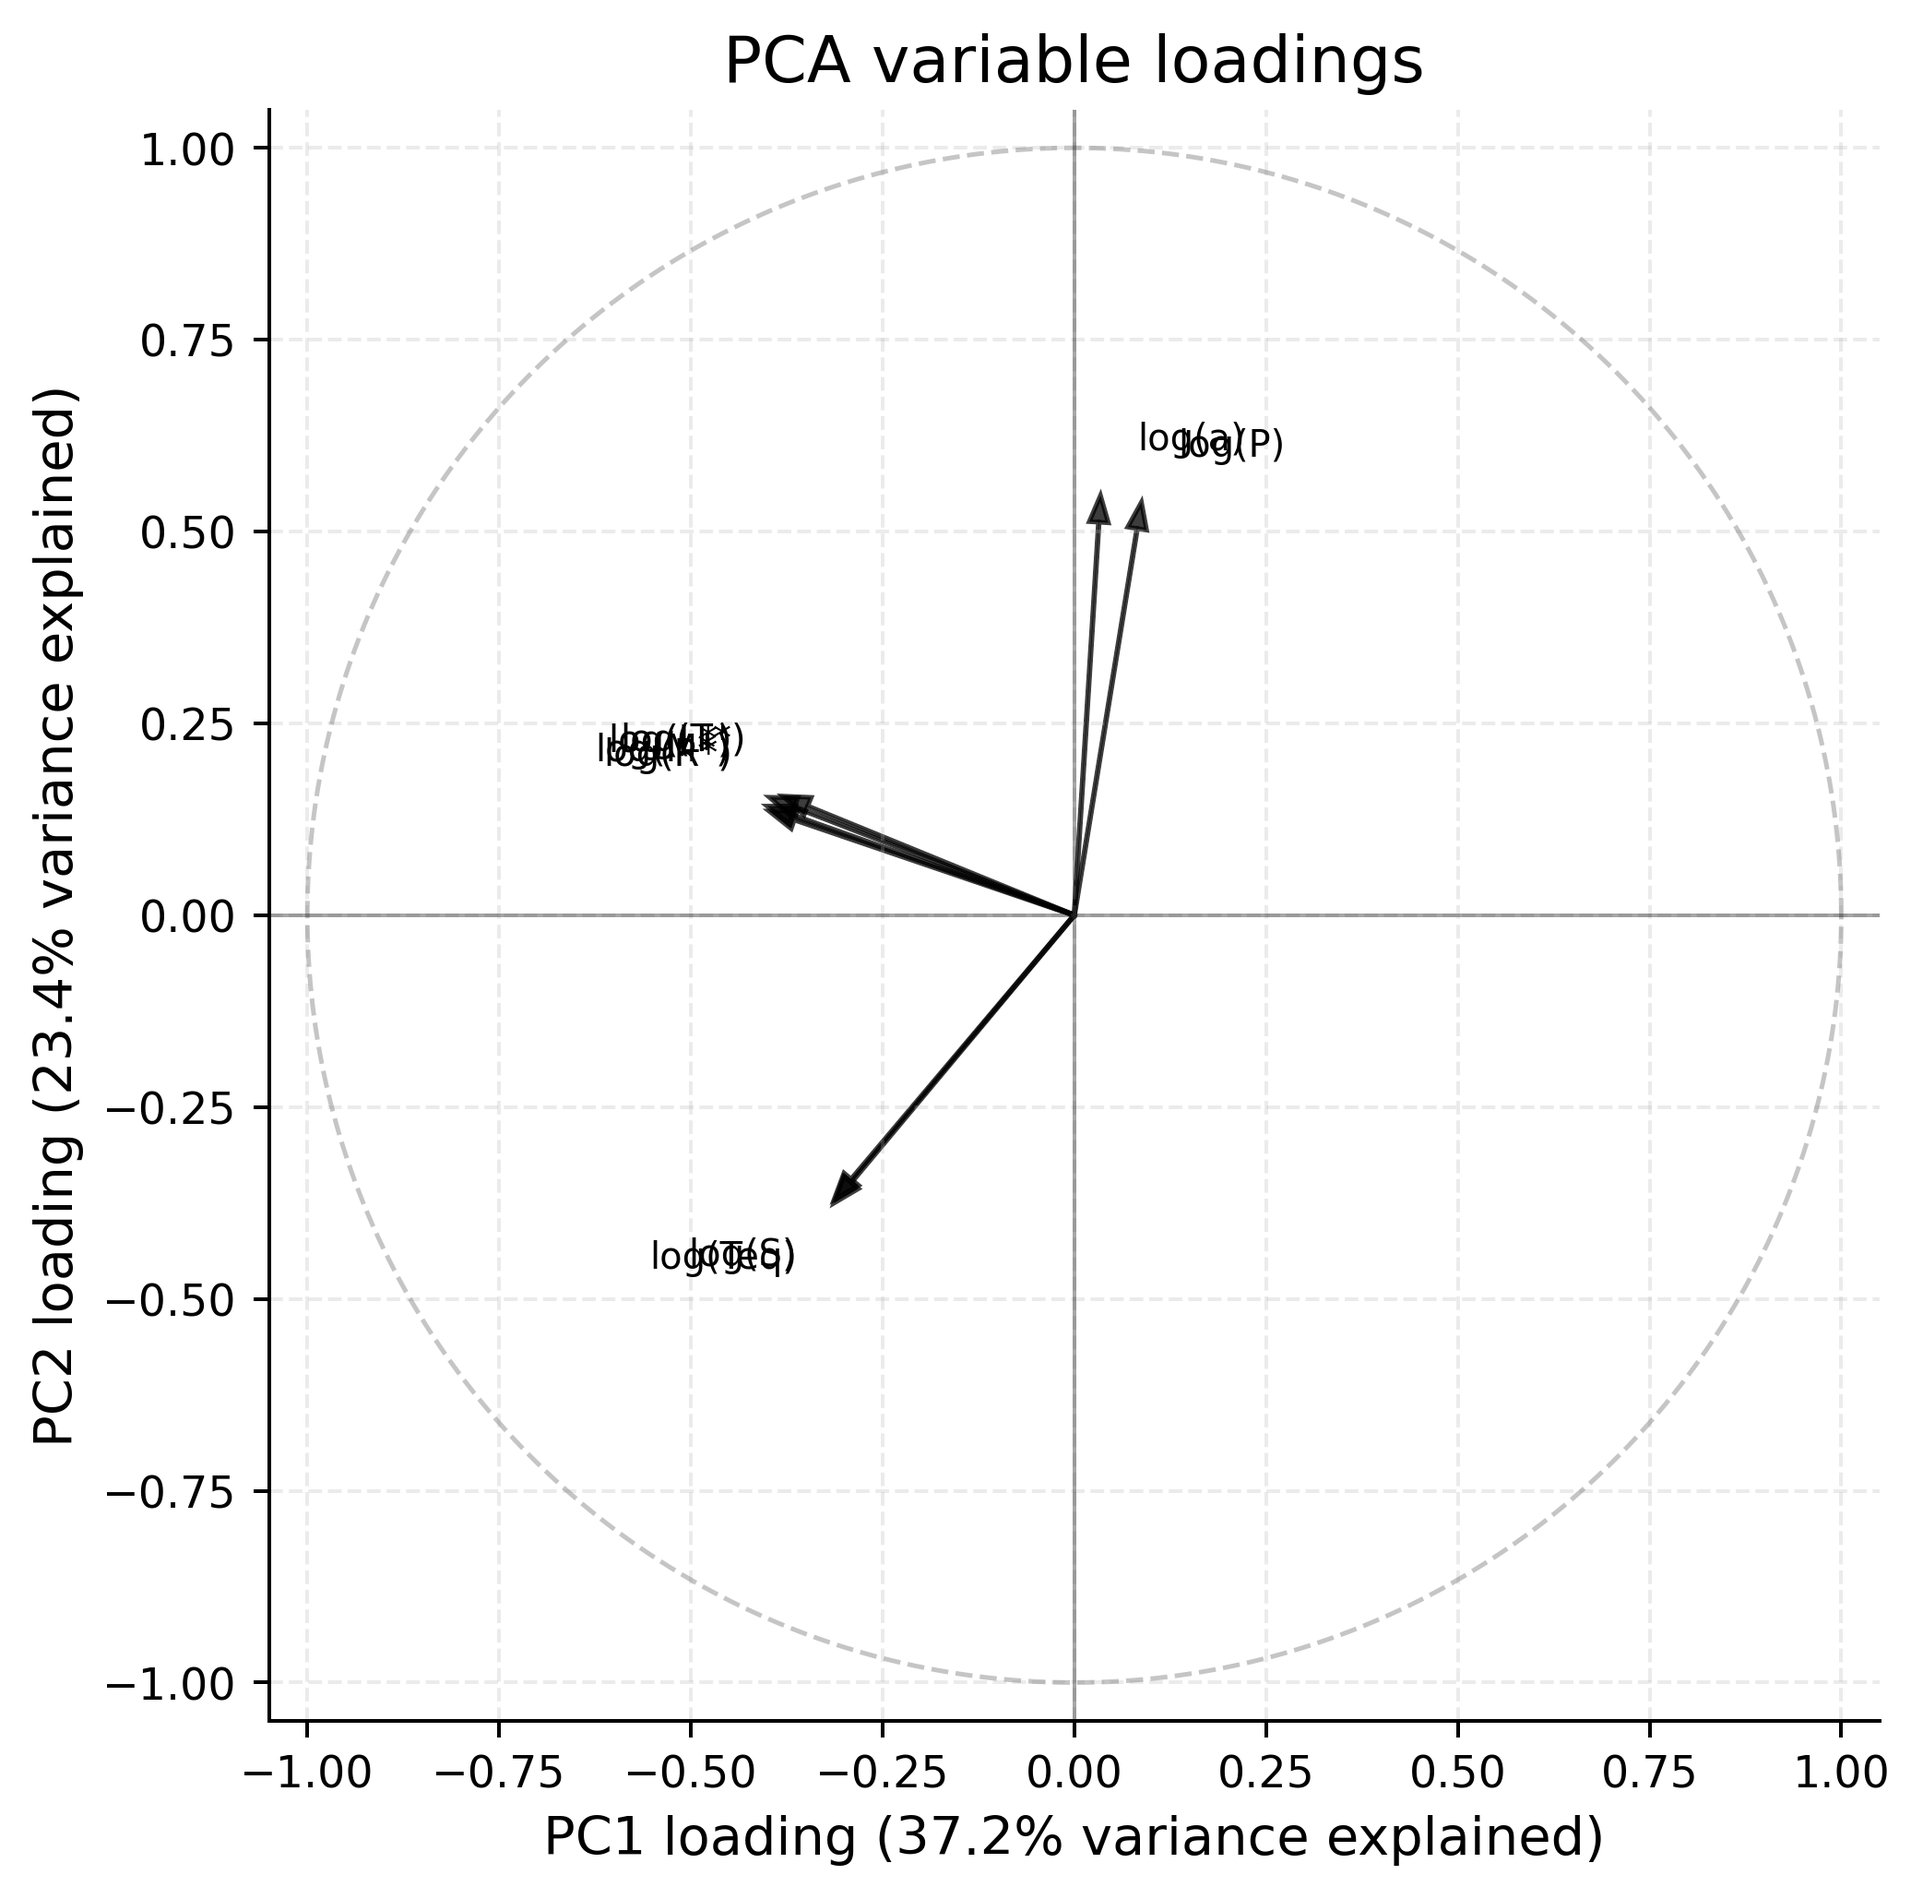
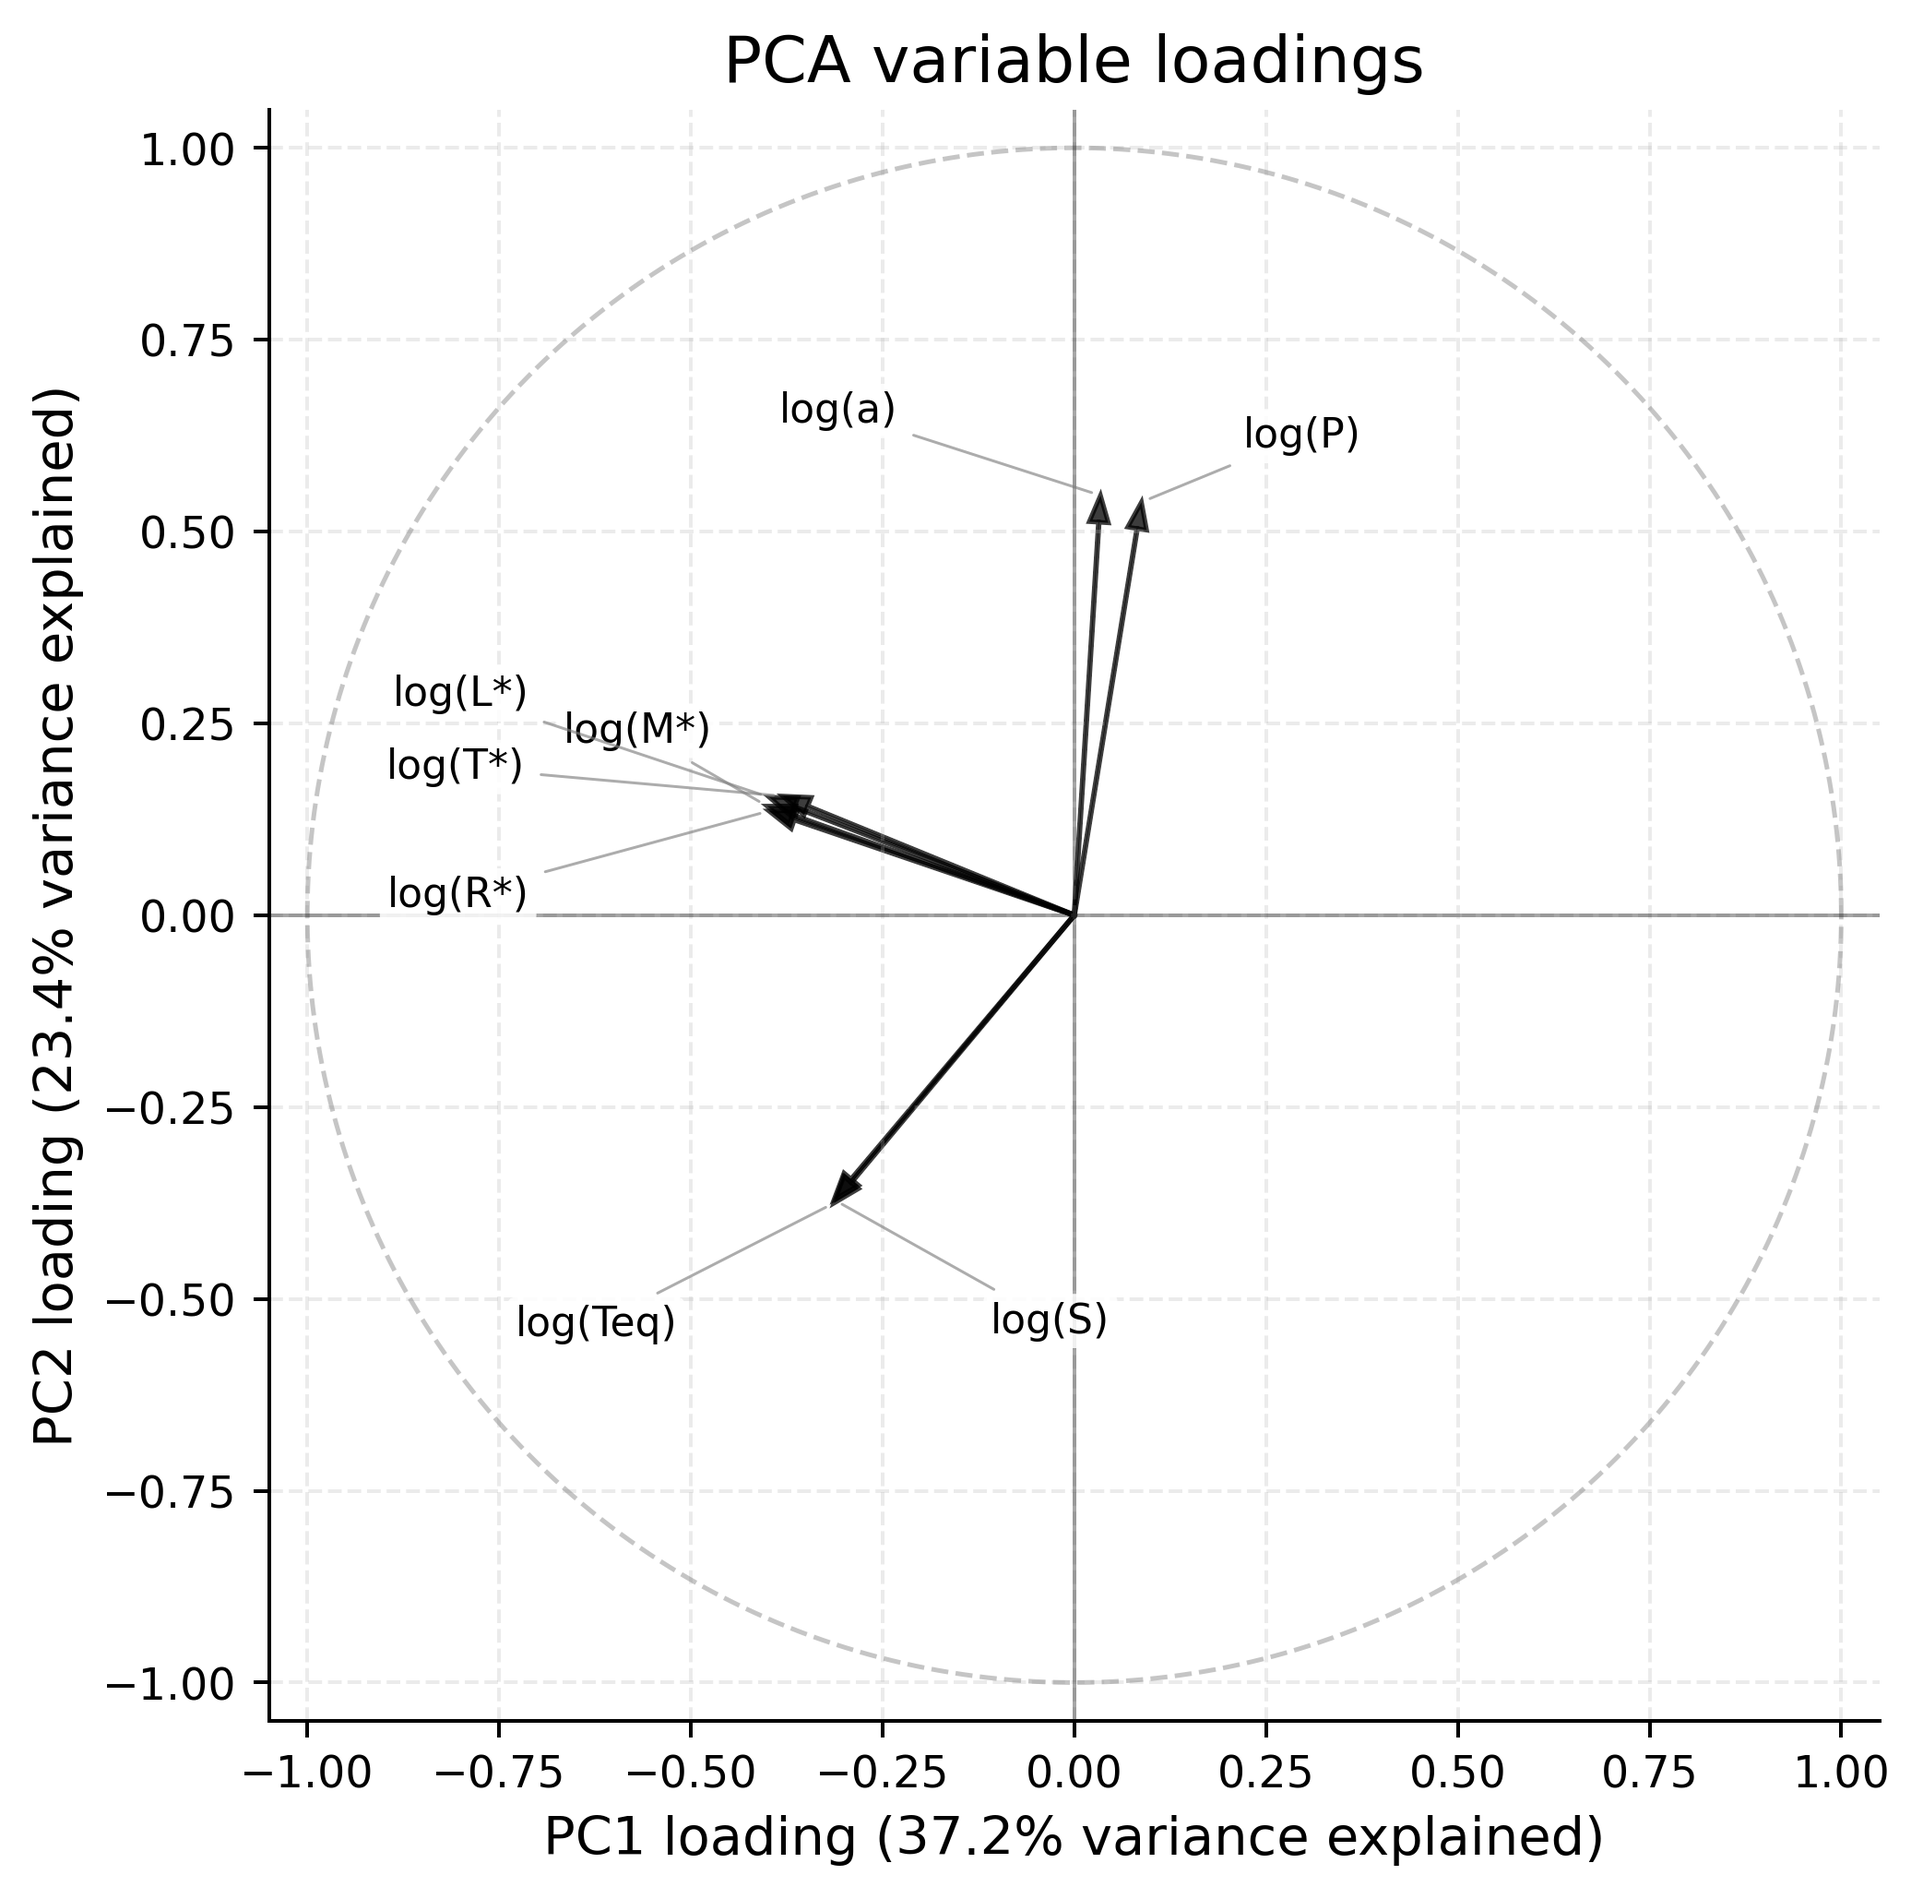
Restore readable PCA loading labels

diff --git a/exoplanet_visualisation_project.py b/exoplanet_visualisation_project.py
@@ -243,10 +243,18 @@ def plot_pca(data: pd.DataFrame, out: Path) -> None:
     fig, ax = plt.subplots(figsize=(6.7, 6.3))
     angle = np.linspace(0, 2 * np.pi, 400)
     ax.plot(np.cos(angle), np.sin(angle), color="grey", lw=1, ls="--", alpha=0.45)
+    label_offsets = {
+        "log(P)": (22, 10), "log(a)": (-44, 14), "log(Teq)": (-34, -22),
+        "log(S)": (34, -22), "log(L*)": (-52, 18), "log(T*)": (-56, 2),
+        "log(R*)": (-52, -14), "log(Mp)": (-22, 18), "log(Rp)": (-44, -12),
+        "log(density)": (18, -18), "log(d)": (22, 16), "e": (0, 18),
+    }
     for index in shown:
         x, y = loadings[index]
         ax.arrow(0, 0, x, y, color="black", alpha=0.76, head_width=0.025, head_length=0.035, length_includes_head=True)
-        ax.annotate(features[index], (x, y), xytext=(8 if x >= 0 else -8, 8 if y >= 0 else -8), textcoords="offset points", ha="left" if x >= 0 else "right", va="bottom" if y >= 0 else "top", fontsize=8)
+        label = features[index]
+        offset = label_offsets.get(label, (12 if x >= 0 else -12, 12 if y >= 0 else -12))
+        ax.annotate(label, (x, y), xytext=offset, textcoords="offset points", ha="left" if offset[0] >= 0 else "right", va="bottom" if offset[1] >= 0 else "top", fontsize=8.8, bbox={"boxstyle": "round,pad=0.18", "facecolor": "white", "edgecolor": "none", "alpha": 0.86}, arrowprops={"arrowstyle": "-", "color": "grey", "lw": 0.6, "alpha": 0.65})
     ax.axhline(0, color="black", lw=0.8, alpha=0.35); ax.axvline(0, color="black", lw=0.8, alpha=0.35)
     ax.set(xlim=(-1.05, 1.05), ylim=(-1.05, 1.05), aspect="equal", xlabel=f"PC1 loading ({explained[0]:.1%} variance explained)", ylabel=f"PC2 loading ({explained[1]:.1%} variance explained)", title="PCA variable loadings")
     save(fig, out, "fig13_pca_loadings.png")
